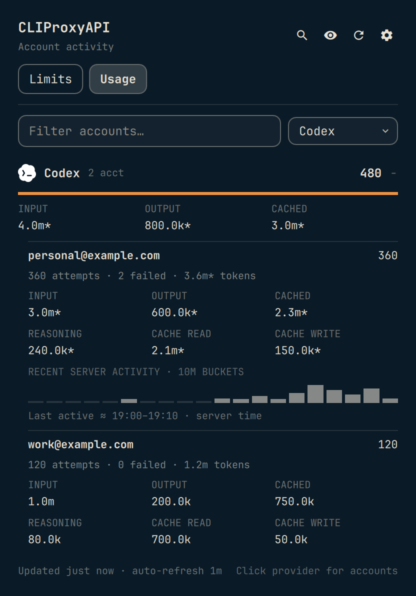
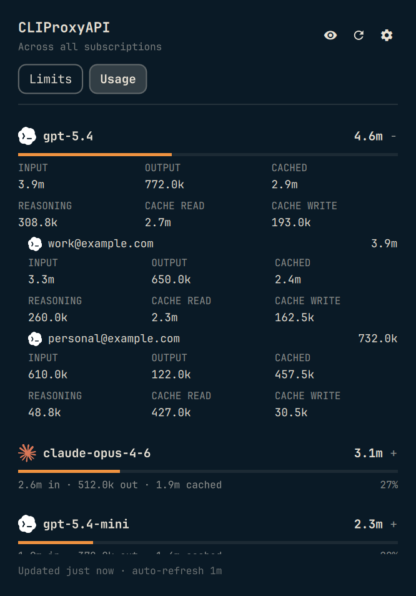
Polish token detail states and document verified native UI

diff --git a/UsagePane.qml b/UsagePane.qml
@@ -31,7 +31,7 @@ ColumnLayout {
         Layout.fillWidth: true
         Label { text: "TOKEN USAGE"; muted: true; font.pixelSize: Style.font.caption; Layout.fillWidth: true }
         Ui.ButtonGroup {
-            objectName: "usagePeriod"; value: root.period; enabled: root.view.available
+            objectName: "usagePeriod"; value: root.period; enabled: root.view.available; opacity: enabled ? 1 : 0.35
             options: [{value:"1",label:"1D",tooltip:"Today (UTC)"}, {value:"7",label:"7D",tooltip:"7 UTC days including today"}, {value:"30",label:"30D",tooltip:"30 UTC days including today"}]
             onChanged: value => root.period = value
         }
@@ -160,7 +160,7 @@ ColumnLayout {
                 Rectangle { height: parent.height; width: parent.width * Display.metricRatio(group.modelData.tokenMetrics.total, root.totals.tokenMetrics.total.value); color: Commons.Color.accent }
             }
             RowLayout {
-                Layout.fillWidth: true
+                visible: !group.expanded; Layout.fillWidth: true
                 Label {
                     Layout.fillWidth: true; font.pixelSize: Style.font.caption; muted: true; elide: Text.ElideRight
                     text: Display.metricText(group.modelData.tokenMetrics.input) + " in · " + Display.metricText(group.modelData.tokenMetrics.output) + " out · " + Display.metricText(group.modelData.tokenMetrics.cached) + " cached"
@@ -180,7 +180,7 @@ ColumnLayout {
                         Label { Layout.fillWidth: true; text: accountRow.modelData.label; elide: Text.ElideMiddle; font.pixelSize: Style.font.bodySmall }
                         Label { text: Display.metricText(accountRow.modelData.tokenMetrics.total); font.pixelSize: Style.font.bodySmall }
                     }
-                    UsageMetrics { Layout.fillWidth: true; summary: accountRow.modelData }
+                    UsageMetrics { Layout.fillWidth: true; summary: accountRow.modelData; detailed: root.detailsOpen }
                 }
             }
             Item { implicitHeight: Style.space(3) }

diff --git a/Dashboard.qml b/Dashboard.qml
@@ -70,7 +70,7 @@ FocusScope {
             ColumnLayout {
                 Layout.fillWidth: true; spacing: Style.space(3)
                 Label { text: "CLIProxyAPI"; font.pixelSize: Style.font.title; font.bold: true }
-                Label { text: root.activePane === "usage" ? "Tokens across your subscriptions" : "Subscription limits"; font.pixelSize: Style.font.caption; color: Qt.alpha(Commons.Color.foreground, 0.5) }
+                Label { text: root.activePane === "usage" ? "Across all subscriptions" : "Subscription limits"; font.pixelSize: Style.font.caption; color: Qt.alpha(Commons.Color.foreground, 0.5) }
             }
             Item { Layout.fillWidth: true }
             Ui.PanelActionButton {
